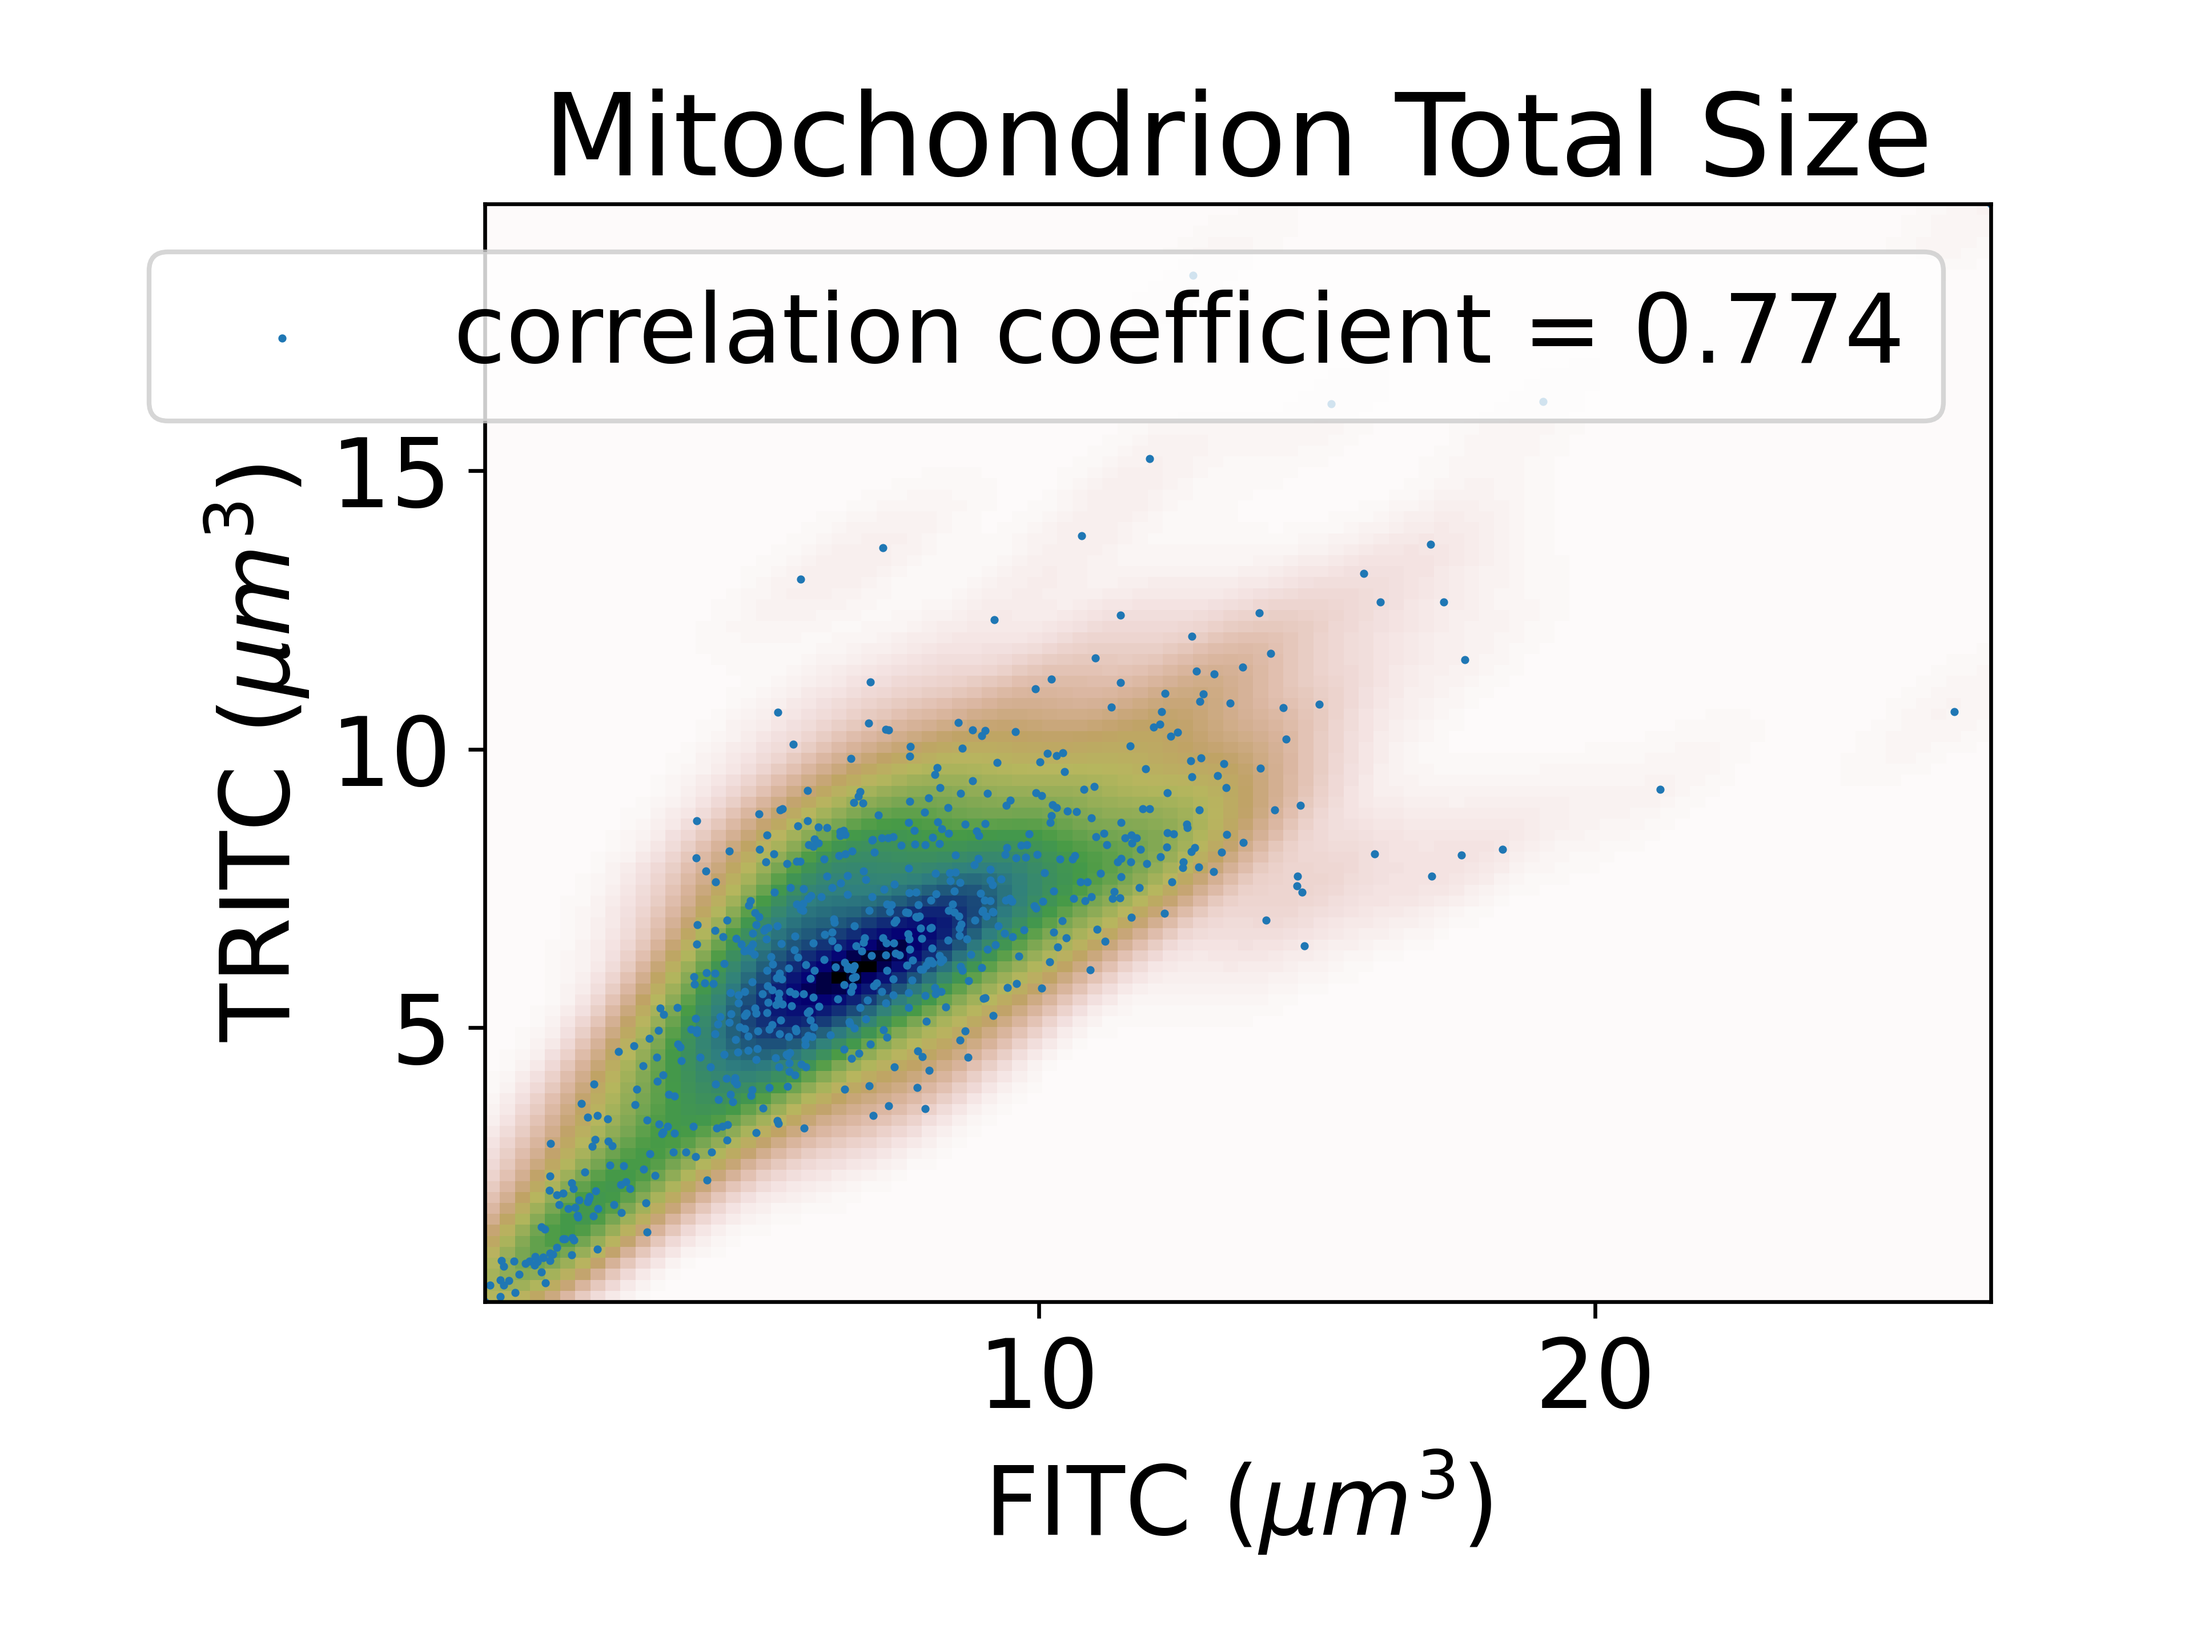
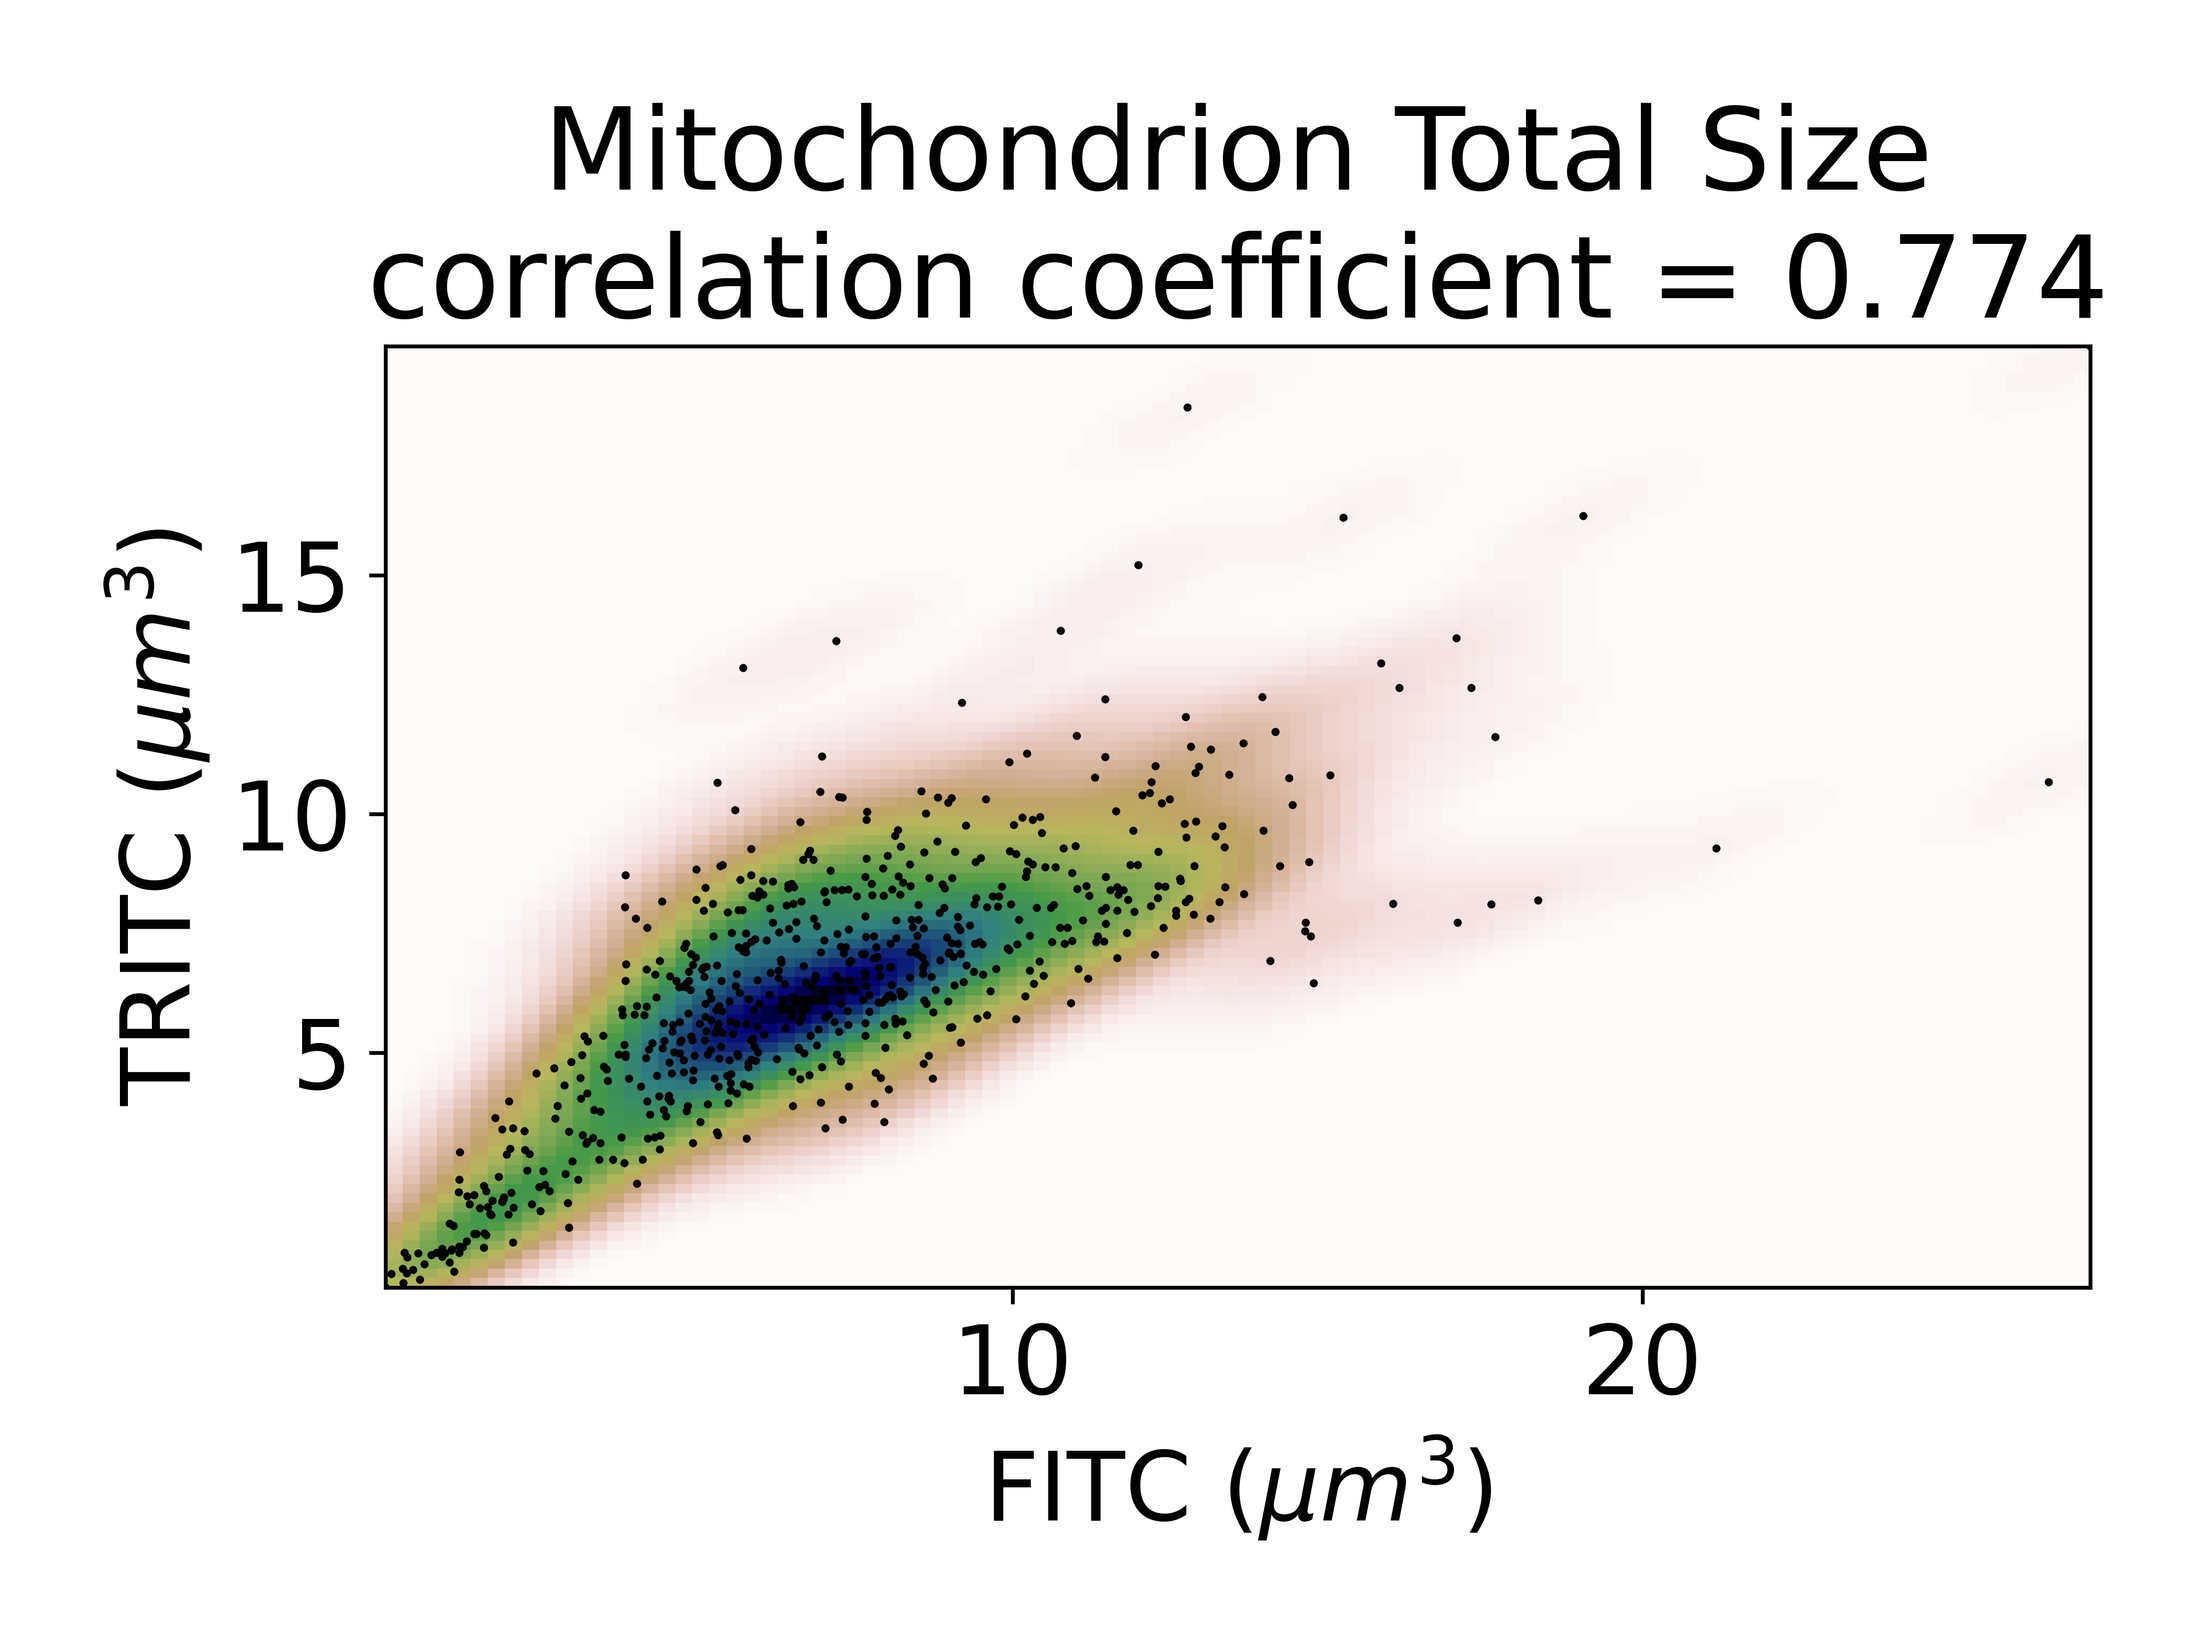
combined plots for dual label total size distributions

diff --git a/scripts/plot/csv2figures_2label1organelle.py b/scripts/plot/csv2figures_2label1organelle.py
@@ -75,6 +75,32 @@ organelle_names = {
     "MT": "Mitochondrion",
     "LD": "Lipid Droplet"
 }
+fluorescence_names = {
+	"PX": {
+		"DAPI": "mTagBFP2-SKL",
+		"FITC": "PEX1-2GFP",
+	},
+	"VO": {
+		"CFP" : "VPH1-mTFP1",
+		"FITC": "GFP-PHO8",
+	},
+	"ER": {
+		"FITC" : "SEC61-sfGFP",
+		"TRITC": "SS-mCherry-HDEL",
+	},
+	"GL": {
+		"TRITC": "CHS5-mCherry",
+		"YFP"  : "SEC7-mCitrine",
+	},
+	"MT": {
+		"FITC" : "COX4-GFP",
+		"TRITC": "TOM70-tdTomato",
+	},
+	"LD": {
+		"FITC" : "TGL3-GFP",
+		"TRITC": "ERG6-mCherry",
+	},
+}
 
 for organelle in organelles:
 	
@@ -108,49 +134,102 @@ for organelle in organelles:
 	stddevis = np.std(array_totals,axis=1)
 	normalized = (array_totals - averages.reshape((-1,1)))/stddevis.reshape((-1,1))
 
-	# KDE plot of raw data
-	xmin = array_totals[0].min()
-	xmax = array_totals[0].max()
-	ymin = array_totals[1].min()
-	ymax = array_totals[1].max()
-	X, Y = np.mgrid[xmin:xmax:100j, ymin:ymax:100j]
-	positions = np.vstack([X.ravel(), Y.ravel()])
-	kernel = scipy.stats.gaussian_kde(array_totals)
-	Z = np.reshape(kernel(positions).T, X.shape)
+	# Overlay of histogram
+	plt.rcParams['font.size'] = '20'
+	fig,ax = plt.subplots(constrained_layout=True)
+	plt.title(f"{organelle_names[organelle]} Total Size")
+	ax.hist(
+		normalized[0], 20, 
+		density=True, histtype='step',
+		label=f"{fluorescence_names[organelle][cameras[0]]}"
+	)
+	ax.hist(
+		normalized[1], 20, 
+		density=True, histtype='step',
+		label=f"{fluorescence_names[organelle][cameras[1]]}"
+	)
+	ax.legend(fontsize=16)
+	ax.set_xlabel("Normalized Organelle Volume")
+	ax.set_ylabel("Density")
 
-	plt.figure()
-	plt.title(f"{organelle_names[organelle]} Total Size\ncorrelation coefficient = {corr_coef[0,1]:.3f}")
-	plt.imshow(
-		np.rot90(Z), cmap=plt.cm.gist_earth_r,
-        extent=[xmin, xmax, ymin, ymax]
-	)
-	plt.scatter(
+	positions = [0.68,0.45,0.28,0.22] 
+	fsize = 12
+	if organelle == "ER":
+		positions = [0.78,0.46,0.2,0.15]
+		fsize = 10 
+	if organelle == "MT":
+		positions = [0.71,0.45,0.26,0.21]
+		fsize = 11 
+	inlet = fig.add_axes(positions)
+	inlet.scatter(
 		array_totals[0],array_totals[1],
-		s=2, c='k', marker='.',
+		s=10, facecolor='white',edgecolor=sns.color_palette('tab10')[0],
 	)
-	plt.xlabel(f"{cameras[0]} ($\\mu m^3$)")
-	plt.ylabel(f"{cameras[1]} ($\\mu m^3$)")
+	inlet.set_title(
+		f"$p_{{correlation}}$ = {corr_coef[0,1]:.3f}",
+		fontsize=fsize
+	)
+	inlet.set_xlabel(
+		f"{fluorescence_names[organelle][cameras[0]]} ($\\mu m^3$)",
+		fontsize=fsize
+	)
+	inlet.set_ylabel(
+		f"{fluorescence_names[organelle][cameras[1]]} ($\\mu m^3$)",
+		fontsize=fsize
+	)
+	# inlet.set_xticks(inlet.get_xticks())
+	inlet.set_xticklabels(inlet.get_xticks(), fontsize=fsize)
+	# inlet.set_yticks(inlet.get_xticks())
+	inlet.set_yticklabels(inlet.get_yticks(), fontsize=fsize)
+
 	plt.savefig(
-		f"plots/2labels1organelle/kde_totalsize_{organelle}.png",
+		f"plots/2labels1organelle/combined_totalsize_{organelle}.png",
 		dpi=600
 	)
 
-	plt.figure()
-	plt.title(f"{organelle_names[organelle]} Total Size\ncorrelation coefficient = {corr_coef[0,1]:.3f}")
-	plt.scatter(
-		array_totals[0],array_totals[1],
-		facecolor='white',edgecolor=sns.color_palette('tab10')[0],
-	)
-	plt.xlabel(f"{cameras[0]} ($\\mu m^3$)")
-	plt.ylabel(f"{cameras[1]} ($\\mu m^3$)")
-	plt.legend()
-	plt.savefig(
-		f"plots/2labels1organelle/scatter_totalsize_{organelle}.png",
-		dpi=600
-	)
 
-	break
+	# # KDE plot of raw data
+	# xmin = array_totals[0].min()
+	# xmax = array_totals[0].max()
+	# ymin = array_totals[1].min()
+	# ymax = array_totals[1].max()
+	# X, Y = np.mgrid[xmin:xmax:100j, ymin:ymax:100j]
+	# positions = np.vstack([X.ravel(), Y.ravel()])
+	# kernel = scipy.stats.gaussian_kde(array_totals)
+	# Z = np.reshape(kernel(positions).T, X.shape)
 
+	# plt.figure()
+	# plt.title(f"{organelle_names[organelle]} Total Size\ncorrelation coefficient = {corr_coef[0,1]:.3f}")
+	# plt.imshow(
+	# 	np.rot90(Z), cmap=plt.cm.gist_earth_r,
+    #     extent=[xmin, xmax, ymin, ymax], aspect="auto"
+	# )
+	# plt.scatter(
+	# 	array_totals[0],array_totals[1],
+	# 	s=2, c='k', marker='.',
+	# )
+	# plt.xlabel(f"{cameras[0]} ($\\mu m^3$)")
+	# plt.ylabel(f"{cameras[1]} ($\\mu m^3$)")
+	# plt.savefig(
+	# 	f"plots/2labels1organelle/kde_totalsize_{organelle}.png",
+	# 	dpi=600
+	# )
+
+	# # Scatter plot
+	# plt.figure()
+	# plt.title(f"{organelle_names[organelle]} Total Size\ncorrelation coefficient = {corr_coef[0,1]:.3f}")
+	# plt.scatter(
+	# 	array_totals[0],array_totals[1],
+	# 	facecolor='white',edgecolor=sns.color_palette('tab10')[0],
+	# )
+	# plt.xlabel(f"{cameras[0]} ($\\mu m^3$)")
+	# plt.ylabel(f"{cameras[1]} ($\\mu m^3$)")
+	# plt.savefig(
+	# 	f"plots/2labels1organelle/scatter_totalsize_{organelle}.png",
+	# 	dpi=600
+	# )
+
+	# # Scatter of counter number
 	# cameras = list(dict_counts.keys())
 	# array_counts = np.vstack((dict_counts[cameras[0]],dict_counts[cameras[1]]))
 	# plt.figure()
@@ -168,7 +247,7 @@ for organelle in organelles:
 	# 	dpi=600
 	# )
 
-
+	# # Scatter of average size
 	# cameras = list(dict_means.keys())
 	# array_means  = np.vstack((dict_means[cameras[0]],dict_means[cameras[1]]))
 	# plt.figure()
